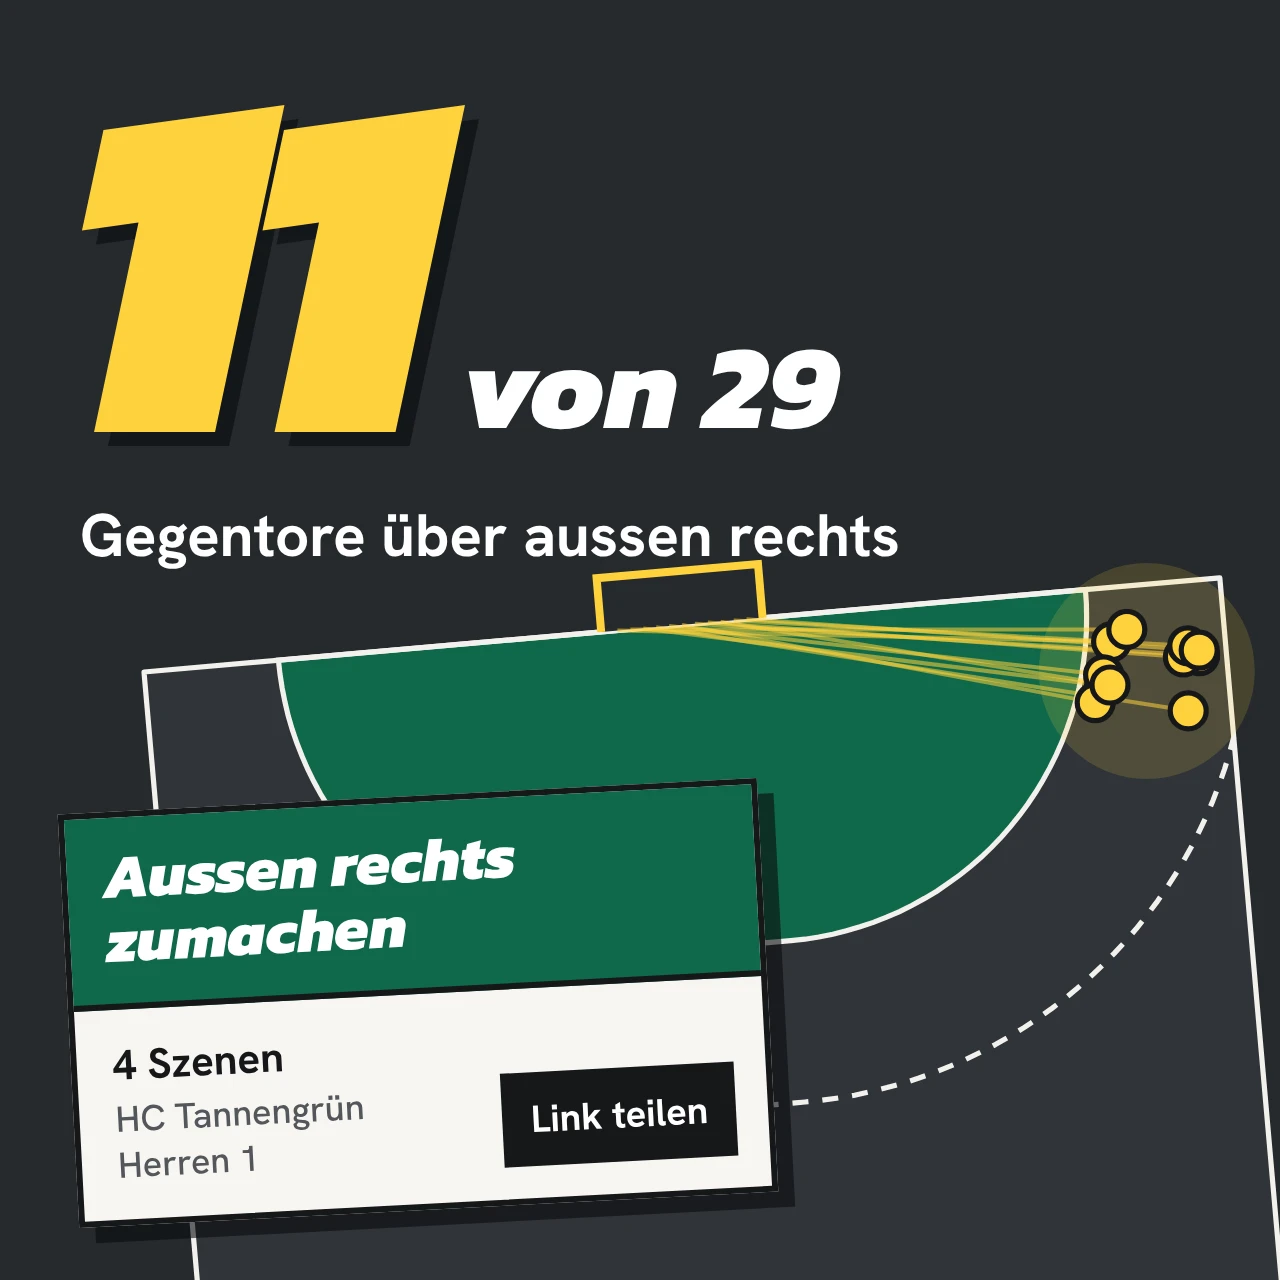
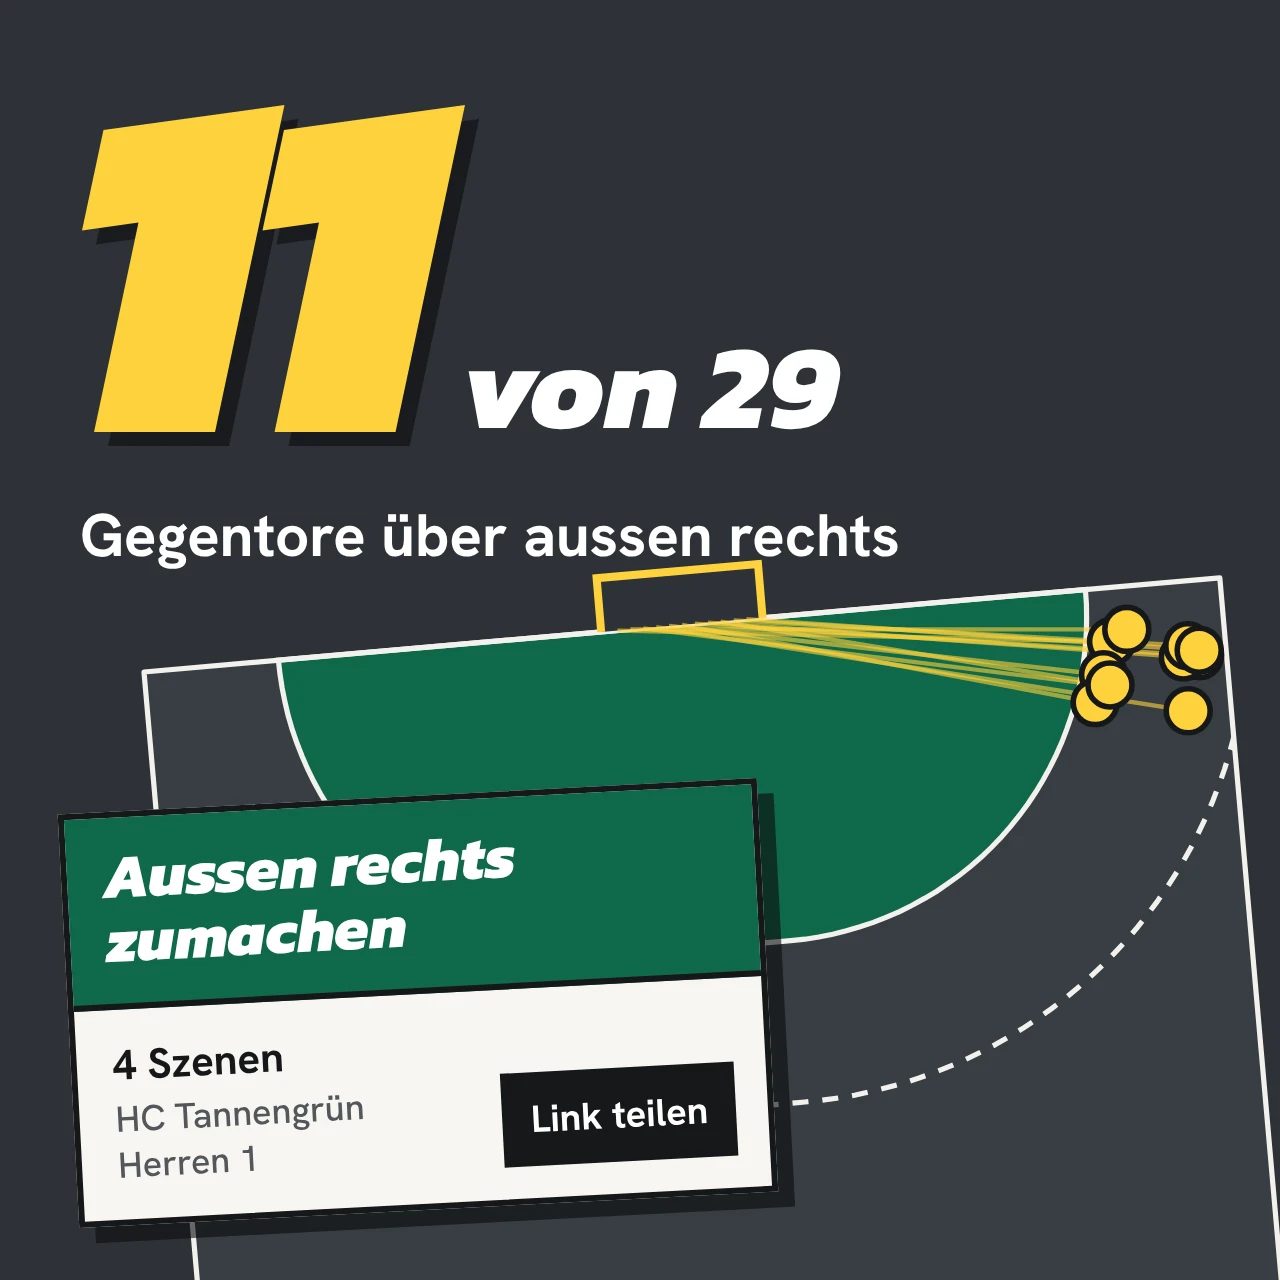
Site U33: the steps' ground a step lighter, bigger shot spots in step 4
Lukas: «muss nicht sooo dunkel sein». The ink ground goes from #25292d to
#2d3237 (the yellow still punches, white text far above 4.5:1); step 4
loses its yellow haze and shows the 11 spots larger.

Claude-Session: https://claude.ai/code/session_01H3gogAPSyQiYdtAJAURpx7

Changed region(s): [[0.6875, 0.4375, 1.0, 0.5938], [0.5938, 0.4688, 0.6562, 0.5]]

diff --git a/apps/site/scripts/product-shots/templates/step-result.html b/apps/site/scripts/product-shots/templates/step-result.html
@@ -3,7 +3,7 @@
      website's match, large: a huge yellow «11», «von 29», «Gegentore über aussen rechts»; under
      it the half court with the goal at the top, the green goal area, and the 11 shot spots of the
      demo match (src/lib/story.ts, saturday(): all at the right wing) as yellow dots with their way
-     into the goal, in a soft yellow light. Over it the collection the
+     into the goal. Over it the collection the
      coach sends to the team chat, as the app shows it: «Aussen rechts zumachen» on the club's
      green, «4 Szenen», «HC Tannengrün Herren 1» and «Link teilen». In de, fr and en. -->
 <meta charset="utf-8" />
@@ -120,16 +120,14 @@
   g.push(`<path d="M${P([[9.5, 7], [10.5, 7]])}" ${L}/>`);
   g.push(`<path d="M${P([[0, 0], [20, 0], [20, 22], [0, 22]])}Z" ${L}/>`);
   g.push(`<path d="M${P([[8.5, 0], [8.5, -1], [11.5, -1], [11.5, 0]])}" fill="${K.night}" stroke="${K.attn}" stroke-width="4"/>`);
-  // the 11 over the right wing: a light on the place, each shot's way into the goal, the spot
-  const [hx, hy] = M([18.5, 1.6]);
-  g.push(`<circle cx="${hx.toFixed(1)}" cy="${hy.toFixed(1)}" r="54" fill="${K.attn}" fill-opacity=".16"/>`);
+  // the 11 over the right wing: each shot's way into the goal, then the spot
   RA.forEach((p, i) => {
     const aim = [8.8 + (2.4 * i) / (RA.length - 1), 0];
-    g.push(`<path d="M${P([p, aim])}" stroke="${K.attn}" stroke-opacity=".55" stroke-width="2"/>`);
+    g.push(`<path d="M${P([p, aim])}" stroke="${K.attn}" stroke-opacity=".6" stroke-width="2.2"/>`);
   });
   for (const p of RA) {
     const [x, y] = M(p);
-    g.push(`<circle cx="${x.toFixed(1)}" cy="${y.toFixed(1)}" r="9" fill="${K.attn}" stroke="${K.ink}" stroke-width="2.6"/>`);
+    g.push(`<circle cx="${x.toFixed(1)}" cy="${y.toFixed(1)}" r="11" fill="${K.attn}" stroke="${K.ink}" stroke-width="2.8"/>`);
   }
   ground(g.join(""));
 

diff --git a/apps/site/scripts/product-shots/templates/step-check.html b/apps/site/scripts/product-shots/templates/step-check.html
@@ -20,7 +20,7 @@
     box-shadow: var(--hard);
     transform: rotate(-1.5deg);
     overflow: hidden;
-    background: #2b3035;
+    background: #343a40;
   }
   .ask {
     left: 30px;
@@ -106,7 +106,7 @@
     cx: pw / 2,
     cy: ph * 0.42,
     line: 0.75,
-    colors: { wall: "#2b3035", wall2: "#22262a", paper: "#59606a", floor: "#353a40", court: "#efe6cc", zone: K.pitch, ink: K.ink, ink2: "#8a9099" },
+    colors: { wall: "#343a40", wall2: "#2a2f34", paper: "#59606a", floor: "#353a40", court: "#efe6cc", zone: K.pitch, ink: K.ink, ink2: "#8a9099" },
   });
   const { P } = v;
   // where the near sideline (y = 20) meets the picture's left or right edge

diff --git a/apps/site/scripts/product-shots/stage.css b/apps/site/scripts/product-shots/stage.css
@@ -264,9 +264,9 @@ body {
 
 #stage.steps {
   /* the site's ink, a step softer, and the club's green */
-  --night: #25292d;
-  --night-2: #2f3439;
-  --night-3: #3a4046;
+  --night: #2d3237;
+  --night-2: #383e44;
+  --night-3: #454c53;
   --pitch: #10684a;
   --pitch-2: #0d5a40;
   --pitch-3: #1b7d5a;

diff --git a/apps/site/scripts/product-shots/steps.js b/apps/site/scripts/product-shots/steps.js
@@ -13,9 +13,9 @@
     ink: "#16171a",
     attn: "#ffd23c",
     paper: "#f7f6f2",
-    night: "#25292d",
-    night2: "#2f3439",
-    night3: "#3a4046",
+    night: "#2d3237",
+    night2: "#383e44",
+    night3: "#454c53",
     pitch: "#10684a",
     pitch2: "#0d5a40",
     pitch3: "#1b7d5a",
